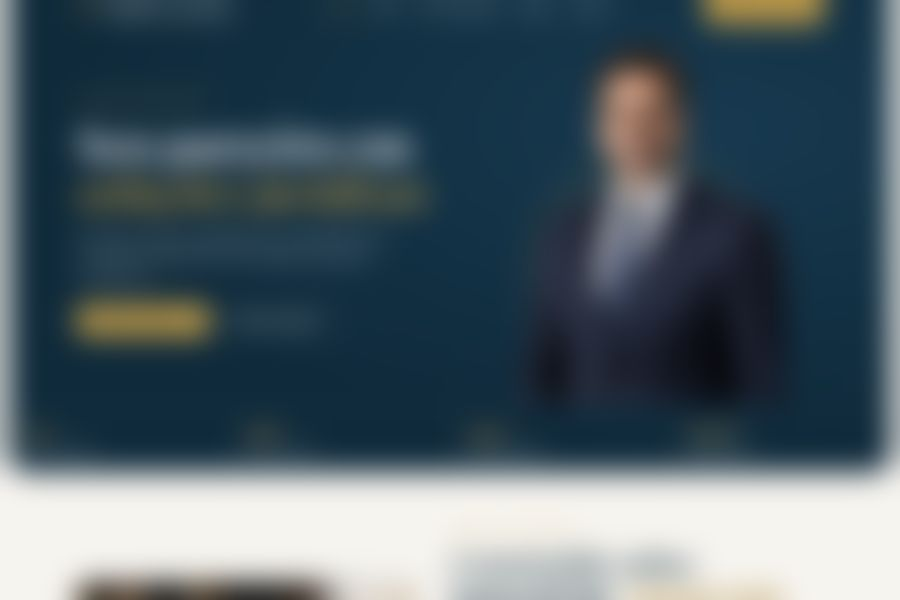
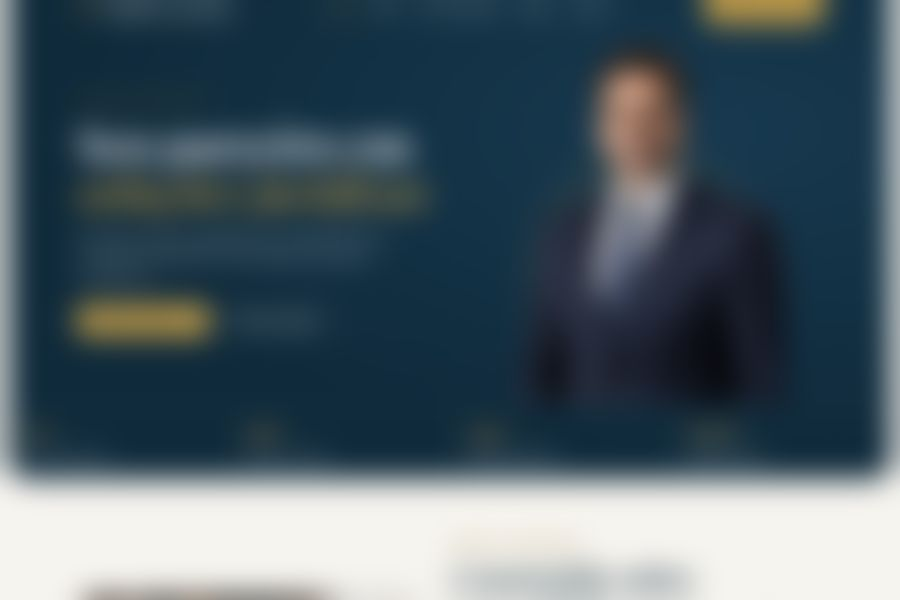
Toledo & Azevedo: ajustes da revisao

diff --git a/src/components/models/LawFold.tsx b/src/components/models/LawFold.tsx
@@ -76,7 +76,7 @@ export function LawFold({ client }: { client?: { name?: string; whatsapp?: strin
         .lf .heroOuter{padding:14px 14px 0}
         .lf .hero{background:radial-gradient(ellipse at 80% 30%,${NV2},${NV} 65%);border-radius:28px;color:#fff;position:relative;overflow:hidden}
         .lf .herogrid{display:grid;grid-template-columns:1.1fr 1fr;gap:10px;align-items:end;min-height:560px}
-        .lf .kick{display:inline-flex;gap:8px;align-items:center;font-size:12.5px;letter-spacing:2.5px;text-transform:uppercase;font-weight:600;color:${GD}}
+        .lf .kick{display:inline-flex;gap:8px;align-items:center;font-size:12.5px;letter-spacing:2.5px;text-transform:uppercase;font-weight:700;color:#8a6a22}.lf .dark .eb,.lf .hero .eb,.lf .heroc .eb{color:${GD}}
         .lf h1{font-family:'Playfair Display',serif;font-weight:700;font-size:clamp(40px,5.2vw,68px);line-height:1.06;margin:18px 0 0}
         .lf h1 em{font-style:italic;color:${GD}}
         .lf .lead{font-size:17.5px;line-height:1.65;color:#cdd9e2;margin:22px 0 30px;max-width:480px}
@@ -86,19 +86,19 @@ export function LawFold({ client }: { client?: { name?: string; whatsapp?: strin
         .lf .stats{display:grid;grid-template-columns:repeat(4,1fr);border-top:1px solid rgba(255,255,255,.14);position:relative;z-index:2}
         .lf .stats div{padding:22px 24px;border-right:1px solid rgba(255,255,255,.14)}.lf .stats div:last-child{border:0}
         .lf .stats b{font-family:'Playfair Display',serif;font-size:34px;color:${GD};display:block;line-height:1}
-        .lf .stats span{font-size:13.5px;color:#cdd9e2}
-        .lf .sec{padding:76px 0}
-        .lf .eb{font-size:12.5px;letter-spacing:3px;text-transform:uppercase;font-weight:600;color:${GD}}
+        .lf .stats span{font-size:16px;display:block;margin-top:10px;color:#cdd9e2}
+        .lf .sec{padding:88px 0}
+        .lf .eb{font-size:13.5px;letter-spacing:3px;text-transform:uppercase;font-weight:700;color:#8a6a22}.lf .dark .eb,.lf .hero .eb,.lf .heroc .eb{color:${GD}}
         .lf h2{font-family:'Playfair Display',serif;font-weight:700;font-size:clamp(30px,3.8vw,46px);line-height:1.1;margin:12px 0 0;color:${NV}}
         .lf h2 em{font-style:italic;color:#a8832f}
         .lf .aboutgrid{display:grid;grid-template-columns:1fr 1.1fr;gap:56px;align-items:center}
         .lf .office{position:relative}.lf .office img{width:100%;aspect-ratio:16/11;object-fit:cover;border-radius:22px;display:block;box-shadow:0 22px 46px rgba(15,42,59,.22)}
-        .lf .badge{position:absolute;left:-14px;bottom:-20px;background:${GD};color:#10202b;border-radius:14px;padding:14px 20px;font-weight:700;line-height:1.2}
+        .lf .badge{position:absolute;left:0;bottom:-20px;background:${GD};color:#10202b;border-radius:14px;padding:14px 20px;font-weight:700;line-height:1.2}
         .lf .badge b{font-family:'Playfair Display',serif;font-size:30px;display:block}
         .lf .vals{display:flex;flex-direction:column;gap:14px;margin:26px 0 30px}
         .lf .val{display:flex;gap:14px;align-items:center;font-weight:600;font-size:16px}
         .lf .val i{width:46px;height:46px;border-radius:50%;background:${NV};display:grid;place-items:center;flex:none}
-        .lf .dark{background:${NV};border-radius:28px;color:#fff;margin:0 14px;padding:70px 0}
+        .lf .dark{background:${NV};border-radius:28px;color:#fff;margin:0 14px;padding:88px 0}
         .lf .dark h2{color:#fff}.lf .dark h2 em{color:${GD}}
         .lf .ah{display:flex;align-items:flex-end;justify-content:space-between;gap:20px}
         .lf .arr{width:46px;height:46px;border-radius:50%;border:1.5px solid rgba(255,255,255,.35);background:transparent;color:#fff;cursor:pointer;font-size:17px}
@@ -109,7 +109,7 @@ export function LawFold({ client }: { client?: { name?: string; whatsapp?: strin
         .lf .card div{padding:20px 22px 22px;display:flex;flex-direction:column;gap:8px;flex:1}
         .lf .card b{font-family:'Playfair Display',serif;font-size:21px}
         .lf .card p{margin:0;font-size:15px;line-height:1.55;color:${MUT};flex:1}
-        .lf .card u{text-decoration:none;color:#a8832f;font-weight:600;font-size:14.5px}
+        .lf .card u{text-decoration:none;color:#8a6a22;font-weight:600;font-size:14.5px}
         .lf .tm{display:grid;grid-template-columns:repeat(3,1fr);gap:18px;margin-top:36px}
         .lf .tc{background:#fff;border-radius:18px;overflow:hidden;box-shadow:0 10px 26px rgba(15,42,59,.1)}
         .lf .tc img{width:100%;aspect-ratio:4/4.4;object-fit:cover;object-position:top;display:block}

diff --git a/src/lib/standalone-html/toledo-azevedo.html b/src/lib/standalone-html/toledo-azevedo.html
@@ -23,7 +23,7 @@ Error generating stack: `+u.message+`
         .lf .heroOuter{padding:14px 14px 0}
         .lf .hero{background:radial-gradient(ellipse at 80% 30%,${T0},${jt} 65%);border-radius:28px;color:#fff;position:relative;overflow:hidden}
         .lf .herogrid{display:grid;grid-template-columns:1.1fr 1fr;gap:10px;align-items:end;min-height:560px}
-        .lf .kick{display:inline-flex;gap:8px;align-items:center;font-size:12.5px;letter-spacing:2.5px;text-transform:uppercase;font-weight:600;color:${Zl}}
+        .lf .kick{display:inline-flex;gap:8px;align-items:center;font-size:12.5px;letter-spacing:2.5px;text-transform:uppercase;font-weight:700;color:#8a6a22}.lf .dark .eb,.lf .hero .eb,.lf .heroc .eb{color:${Zl}}
         .lf h1{font-family:'Playfair Display',serif;font-weight:700;font-size:clamp(40px,5.2vw,68px);line-height:1.06;margin:18px 0 0}
         .lf h1 em{font-style:italic;color:${Zl}}
         .lf .lead{font-size:17.5px;line-height:1.65;color:#cdd9e2;margin:22px 0 30px;max-width:480px}
@@ -33,19 +33,19 @@ Error generating stack: `+u.message+`
         .lf .stats{display:grid;grid-template-columns:repeat(4,1fr);border-top:1px solid rgba(255,255,255,.14);position:relative;z-index:2}
         .lf .stats div{padding:22px 24px;border-right:1px solid rgba(255,255,255,.14)}.lf .stats div:last-child{border:0}
         .lf .stats b{font-family:'Playfair Display',serif;font-size:34px;color:${Zl};display:block;line-height:1}
-        .lf .stats span{font-size:13.5px;color:#cdd9e2}
-        .lf .sec{padding:76px 0}
-        .lf .eb{font-size:12.5px;letter-spacing:3px;text-transform:uppercase;font-weight:600;color:${Zl}}
+        .lf .stats span{font-size:16px;display:block;margin-top:10px;color:#cdd9e2}
+        .lf .sec{padding:88px 0}
+        .lf .eb{font-size:13.5px;letter-spacing:3px;text-transform:uppercase;font-weight:700;color:#8a6a22}.lf .dark .eb,.lf .hero .eb,.lf .heroc .eb{color:${Zl}}
         .lf h2{font-family:'Playfair Display',serif;font-weight:700;font-size:clamp(30px,3.8vw,46px);line-height:1.1;margin:12px 0 0;color:${jt}}
         .lf h2 em{font-style:italic;color:#a8832f}
         .lf .aboutgrid{display:grid;grid-template-columns:1fr 1.1fr;gap:56px;align-items:center}
         .lf .office{position:relative}.lf .office img{width:100%;aspect-ratio:16/11;object-fit:cover;border-radius:22px;display:block;box-shadow:0 22px 46px rgba(15,42,59,.22)}
-        .lf .badge{position:absolute;left:-14px;bottom:-20px;background:${Zl};color:#10202b;border-radius:14px;padding:14px 20px;font-weight:700;line-height:1.2}
+        .lf .badge{position:absolute;left:0;bottom:-20px;background:${Zl};color:#10202b;border-radius:14px;padding:14px 20px;font-weight:700;line-height:1.2}
         .lf .badge b{font-family:'Playfair Display',serif;font-size:30px;display:block}
         .lf .vals{display:flex;flex-direction:column;gap:14px;margin:26px 0 30px}
         .lf .val{display:flex;gap:14px;align-items:center;font-weight:600;font-size:16px}
         .lf .val i{width:46px;height:46px;border-radius:50%;background:${jt};display:grid;place-items:center;flex:none}
-        .lf .dark{background:${jt};border-radius:28px;color:#fff;margin:0 14px;padding:70px 0}
+        .lf .dark{background:${jt};border-radius:28px;color:#fff;margin:0 14px;padding:88px 0}
         .lf .dark h2{color:#fff}.lf .dark h2 em{color:${Zl}}
         .lf .ah{display:flex;align-items:flex-end;justify-content:space-between;gap:20px}
         .lf .arr{width:46px;height:46px;border-radius:50%;border:1.5px solid rgba(255,255,255,.35);background:transparent;color:#fff;cursor:pointer;font-size:17px}
@@ -56,7 +56,7 @@ Error generating stack: `+u.message+`
         .lf .card div{padding:20px 22px 22px;display:flex;flex-direction:column;gap:8px;flex:1}
         .lf .card b{font-family:'Playfair Display',serif;font-size:21px}
         .lf .card p{margin:0;font-size:15px;line-height:1.55;color:${sn};flex:1}
-        .lf .card u{text-decoration:none;color:#a8832f;font-weight:600;font-size:14.5px}
+        .lf .card u{text-decoration:none;color:#8a6a22;font-weight:600;font-size:14.5px}
         .lf .tm{display:grid;grid-template-columns:repeat(3,1fr);gap:18px;margin-top:36px}
         .lf .tc{background:#fff;border-radius:18px;overflow:hidden;box-shadow:0 10px 26px rgba(15,42,59,.1)}
         .lf .tc img{width:100%;aspect-ratio:4/4.4;object-fit:cover;object-position:top;display:block}
